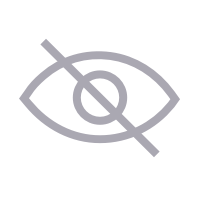
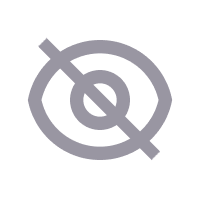
Implement Registration Form

diff --git a/src/components/EewooInput.js b/src/components/EewooInput.js
@@ -1,11 +1,11 @@
 import React from "react";
 import {
+  Text,
   View,
   TextInput,
   StyleSheet,
   Image,
   TouchableOpacity,
-  Animated
 } from "react-native";
 import PropTypes from "prop-types";
 import colors from "../constants/Colors";
@@ -15,10 +15,6 @@ const passwordIconInvisible = require("../../assets/images/eye-cross.png");
 export default class EewooInput extends React.Component {
   constructor(props) {
     super(props);
-
-    this.labelPosition_On = 0;
-    this.labelPosition_Off = -28;
-    this.labelPosition = new Animated.Value(this.labelPosition_On);
 
     this.state = {
       passwordVisible: false,
@@ -33,15 +29,6 @@ export default class EewooInput extends React.Component {
   };
 
   changeLabelPosition = hasFocus => {
-    const toValue =
-      hasFocus || this.props.value
-        ? this.labelPosition_Off
-        : this.labelPosition_On;
-    Animated.timing(this.labelPosition, {
-      toValue,
-      duration: 200,
-      useNativeDriver: true
-    }).start();
     this.setState({ hasFocus });
 
     if (hasFocus && this.props.onFocus) {
@@ -56,20 +43,6 @@ export default class EewooInput extends React.Component {
     return this.props.multiline ? "default" : "done";
   };
 
-  getLabelStyles = () => {
-    const labelStyles = [styles.label];
-
-    if (this.props.value || this.state.hasFocus) {
-      labelStyles.push(styles.smallLabel);
-    }
-
-    if (this.props.error) {
-      labelStyles.push(styles.errorLabel);
-    }
-
-    return labelStyles;
-  };
-
   getInputStyles = () => {
     const inputStyles = [styles.input];
 
@@ -81,9 +54,9 @@ export default class EewooInput extends React.Component {
       inputStyles.push(this.props.styleObject);
     }
 
-    if (this.state.hasFocus) {
-      inputStyles.push(styles.hasFocus);
-    }
+    // if (this.state.hasFocus) {
+    //   inputStyles.push(styles.hasFocus);
+    // }
 
     if (this.props.error || this.props.placeholderError) {
       inputStyles.push(styles.hasError);
@@ -128,8 +101,8 @@ export default class EewooInput extends React.Component {
     }
 
     const icon = this.state.passwordVisible
-      ? passwordIconVisible
-      : passwordIconInvisible;
+      ? passwordIconInvisible
+      : passwordIconVisible;
 
     return (
       <TouchableOpacity
@@ -145,14 +118,7 @@ export default class EewooInput extends React.Component {
   render() {
     return (
       <View style={styles.container}>
-        <Animated.Text
-          style={[
-            ...this.getLabelStyles(),
-            { transform: [{ translateY: this.labelPosition }] }
-          ]}
-        >
-          {this.props.error || this.props.label}
-        </Animated.Text>
+        <Text style={styles.label}>{this.props.label}</Text>
         <TextInput
           style={this.getInputStyles()}
           onChangeText={this.onChanged}
@@ -180,6 +146,7 @@ export default class EewooInput extends React.Component {
         />
         <Image />
         {this.renderPasswordButton()}
+        <Text style={styles.errorLabel}>{this.props.error}</Text>
       </View>
     );
   }
@@ -187,17 +154,18 @@ export default class EewooInput extends React.Component {
 
 const styles = StyleSheet.create({
   container: {
-    marginTop: 60,
+    marginTop: 24,
     position: "relative"
   },
   label: {
     color: colors.graphite,
     fontSize: 14,
-    fontFamily: "Quicksand-Regular",
-    position: "absolute",
-    left: 0,
-    top: 10,
-    zIndex: -1
+    fontFamily: "Quicksand-Bold",
+    textTransform: 'uppercase',
+    // position: "absolute",
+    // left: 0,
+    // top: 10,
+    // zIndex: -1
   },
   smallLabel: {
     textTransform: "uppercase",
@@ -207,25 +175,29 @@ const styles = StyleSheet.create({
     color: "white"
   },
   errorLabel: {
+    marginTop: 4,
+    fontSize: 10,
+    lineHeight: 14,
     color: colors.red,
     textTransform: "none",
     fontFamily: "Quicksand-Bold"
   },
   input: {
-    paddingTop: 11,
-    paddingBottom: 19,
+    paddingTop: 12,
+    paddingBottom: 15,
     borderBottomWidth: 1,
     borderColor: colors.graphiteOpacityFeint,
     color: colors.graphite,
     fontSize: 14,
+    lineHeight: 18,
     fontFamily: "Quicksand-Regular",
     width: "100%",
     letterSpacing: 0.3,
     maxHeight: 200
   },
-  hasFocus: {
-    borderColor: colors.graphite
-  },
+  // hasFocus: {
+  //   borderColor: colors.graphite
+  // },
   passwordInput: {
     paddingRight: 40
   },
@@ -236,12 +208,12 @@ const styles = StyleSheet.create({
     color: colors.red
   },
   toggleBtn: {
-    width: 60,
-    height: 60,
+    width: 50,
+    height: 50,
     position: "absolute",
     zIndex: 1,
-    bottom: -2,
-    right: -15,
+    bottom: 15,
+    right: -12,
     flex: 1,
     justifyContent: "center",
     alignItems: "center"

diff --git a/src/screens/Auth/SignUpScreen.js b/src/screens/Auth/SignUpScreen.js
@@ -12,6 +12,7 @@ import Layout from "../../constants/Layout";
 import colors from "../../constants/Colors";
 import Btn from "../../components/Btn";
 import EewooInput from "../../components/EewooInput";
+import Constants from "expo-constants";
 // import api from "../../api";
 
 //@observer
@@ -114,7 +115,8 @@ export default class SignUpScreen extends React.Component {
           <Text style={styles.title}>Get started!</Text>
 
           <EewooInput
-            label="Full name"
+            label="Name"
+            placeholder="Full name"
             value={this.state.name}
             onChange={name => this.setState({ name })}
             error={this.state.errors.name}
@@ -123,6 +125,7 @@ export default class SignUpScreen extends React.Component {
 
           <EewooInput
             label="Email"
+            placeholder="Email address"
             value={this.state.email}
             onChange={email => this.setState({ email })}
             keyboard="email-address"
@@ -132,6 +135,7 @@ export default class SignUpScreen extends React.Component {
 
           <EewooInput
             label="Password"
+            placeholder="At least 6 characters"
             value={this.state.password}
             onChange={password => this.setState({ password })}
             type="password"
@@ -169,7 +173,7 @@ export default class SignUpScreen extends React.Component {
 const styles = StyleSheet.create({
   container: {
     flex: 1,
-    paddingTop: 50,
+    paddingTop: Constants.statusBarHeight,
     backgroundColor: "white",
     position: "relative"
   },
@@ -177,16 +181,19 @@ const styles = StyleSheet.create({
     flex: 1,
     alignItems: "stretch",
     justifyContent: "center",
-    paddingLeft: 33,
-    paddingRight: 33
+    paddingLeft: 8,
+    paddingRight: 8,
+    alignSelf: 'center',
+    width: '100%',
+    maxWidth: 356,
   },
   title: {
     fontSize: 24,
     fontFamily: "Quicksand-Medium",
-    color: colors.graphite,
+    color: colors.secondary,
     textAlign: "center",
     marginTop: -20,
-    marginBottom: -20
+    marginBottom: 25
   },
   textLink: {
     fontSize: 13,

diff --git a/src/components/Btn.js b/src/components/Btn.js
@@ -41,11 +41,11 @@ export default class Btn extends React.Component {
 
 const styles = StyleSheet.create({
   btn: {
-    backgroundColor: colors.red,
+    backgroundColor: colors.primary,
     borderRadius: 5,
-    borderColor: colors.red,
-    borderWidth: 1,
-    height: 40,
+    // borderColor: colors.primary,
+    // borderWidth: 1,
+    height: 42,
     textAlign: "center",
     margin: 6,
     marginBottom: 10,
@@ -65,7 +65,7 @@ const styles = StyleSheet.create({
     marginTop: -1
   },
   textSecondary: {
-    color: colors.red
+    color: colors.primary
   },
   disabled: {
     color: "#D8D8D8"
